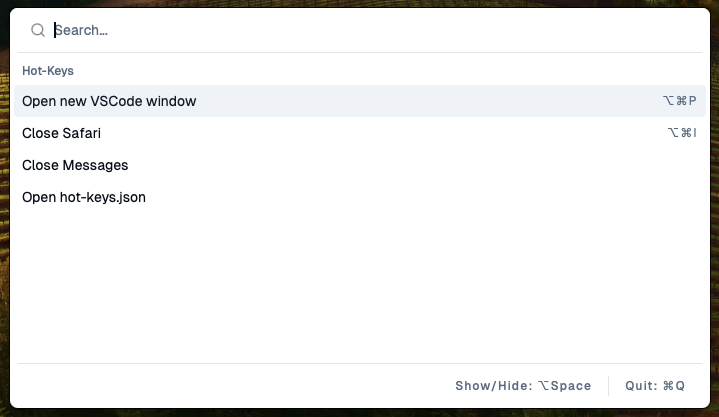
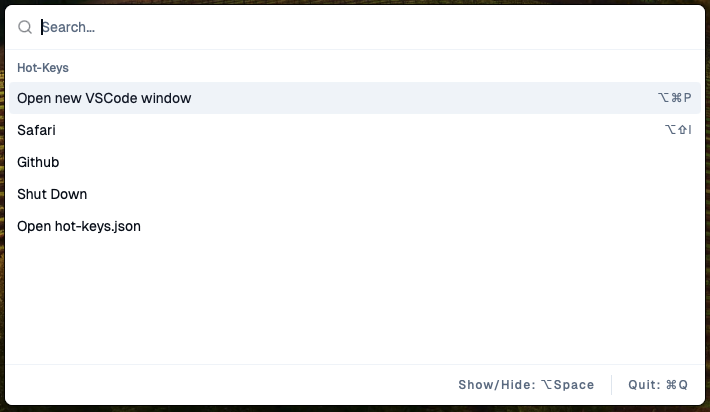
Adjust styles (#3)
* changing some colors

* add color scheme css

* update image

Changed region(s): [[0.0, 0.0, 1.0, 0.9903]]

diff --git a/src/components/command.tsx b/src/components/command.tsx
@@ -22,32 +22,33 @@ const CommandInput = React.forwardRef<
   React.ElementRef<typeof CommandPrimitive.Input>,
   React.ComponentPropsWithoutRef<typeof CommandPrimitive.Input>
 >(({ className, ...props }, ref) => (
-  <div className="px-2">
-    <div className="flex items-center border-b px-3" cmdk-input-wrapper="">
-      <svg
-        className="icon"
-        xmlns="http://www.w3.org/2000/svg"
-        width="24"
-        height="24"
-        viewBox="0 0 24 24"
-        fill="none"
-        stroke="currentColor"
-        strokeWidth="2"
-        strokeLinecap="round"
-        strokeLinejoin="round"
-      >
-        <circle cx="11" cy="11" r="8" />
-        <path d="m21 21-4.3-4.3" />
-      </svg>
-      <CommandPrimitive.Input
-        ref={ref}
-        className={cn(
-          "flex h-11 w-full bg-transparent py-3 text-sm outline-none placeholder:text-muted-foreground disabled:cursor-not-allowed disabled:opacity-50",
-          className
-        )}
-        {...props}
-      />
-    </div>
+  <div
+    className="flex items-center border-b border-accent px-3"
+    cmdk-input-wrapper=""
+  >
+    <svg
+      className="icon"
+      xmlns="http://www.w3.org/2000/svg"
+      width="24"
+      height="24"
+      viewBox="0 0 24 24"
+      fill="none"
+      stroke="currentColor"
+      strokeWidth="2"
+      strokeLinecap="round"
+      strokeLinejoin="round"
+    >
+      <circle cx="11" cy="11" r="8" />
+      <path d="m21 21-4.3-4.3" />
+    </svg>
+    <CommandPrimitive.Input
+      ref={ref}
+      className={cn(
+        "flex h-11 w-full bg-transparent py-3 text-sm outline-none placeholder:text-muted-foreground disabled:cursor-not-allowed disabled:opacity-50",
+        className
+      )}
+      {...props}
+    />
   </div>
 ));
 

diff --git a/src/components/footer.tsx b/src/components/footer.tsx
@@ -4,10 +4,8 @@ import { CommandShortcut } from "./command";
 
 export const FooterMain: React.FC<PropsWithChildren> = ({ children }) => {
   return (
-    <div className="px-2">
-      <div className="flex justify-between items-center border-t h-[45px] bg-background">
-        {children}
-      </div>
+    <div className="flex justify-between items-center border-t border-accent h-[45px] bg-background">
+      {children}
     </div>
   );
 };

diff --git a/src/index.css b/src/index.css
@@ -48,13 +48,15 @@
   }
 
   .dark {
-    --background: 240 10% 3.9%;
+    color-scheme: dark;
+
+    --background: 0, 0%, 11%;
     --foreground: 0 0% 98%;
 
-    --card: 240 10% 3.9%;
+    --card: 0, 0%, 11%;
     --card-foreground: 0 0% 98%;
 
-    --popover: 240 10% 3.9%;
+    --popover: 0, 0%, 11%;
     --popover-foreground: 0 0% 98%;
 
     --primary: 0 0% 98%;
